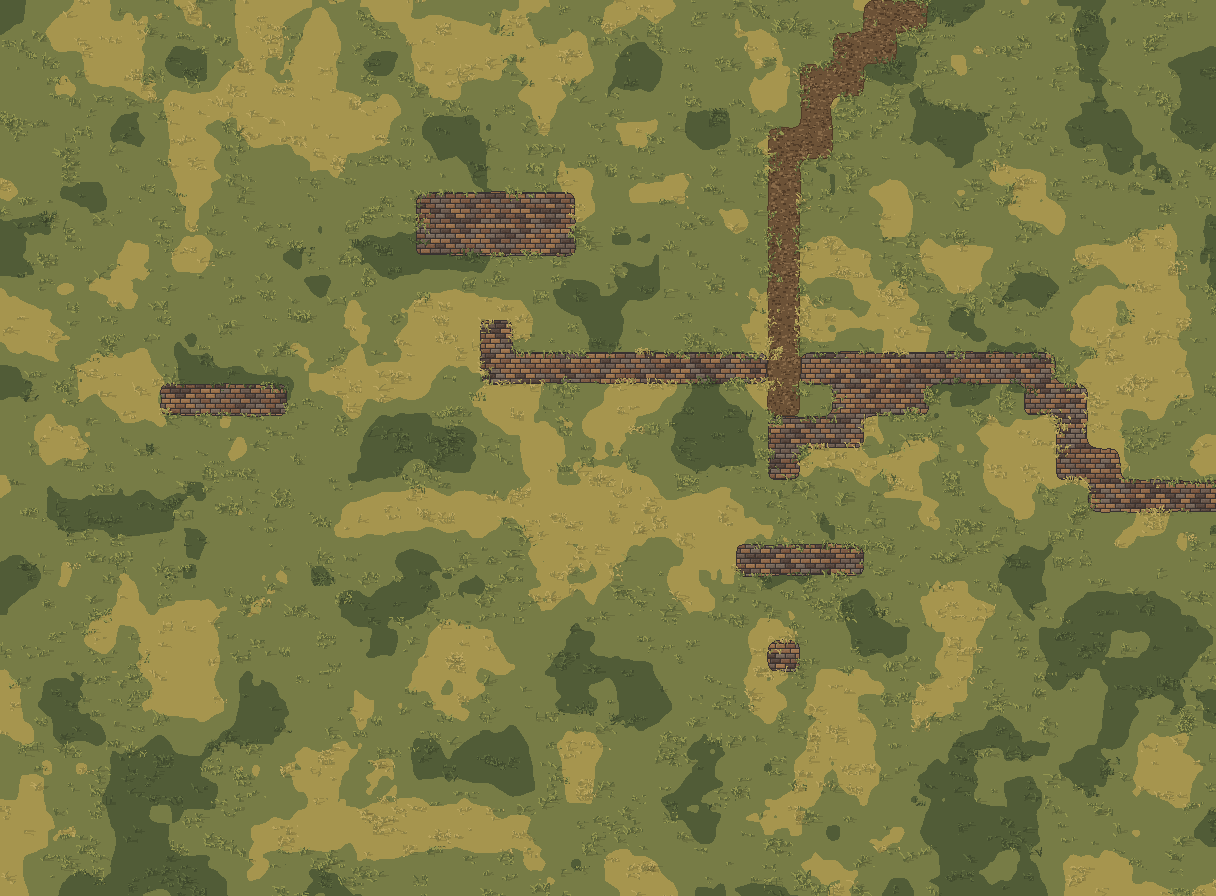
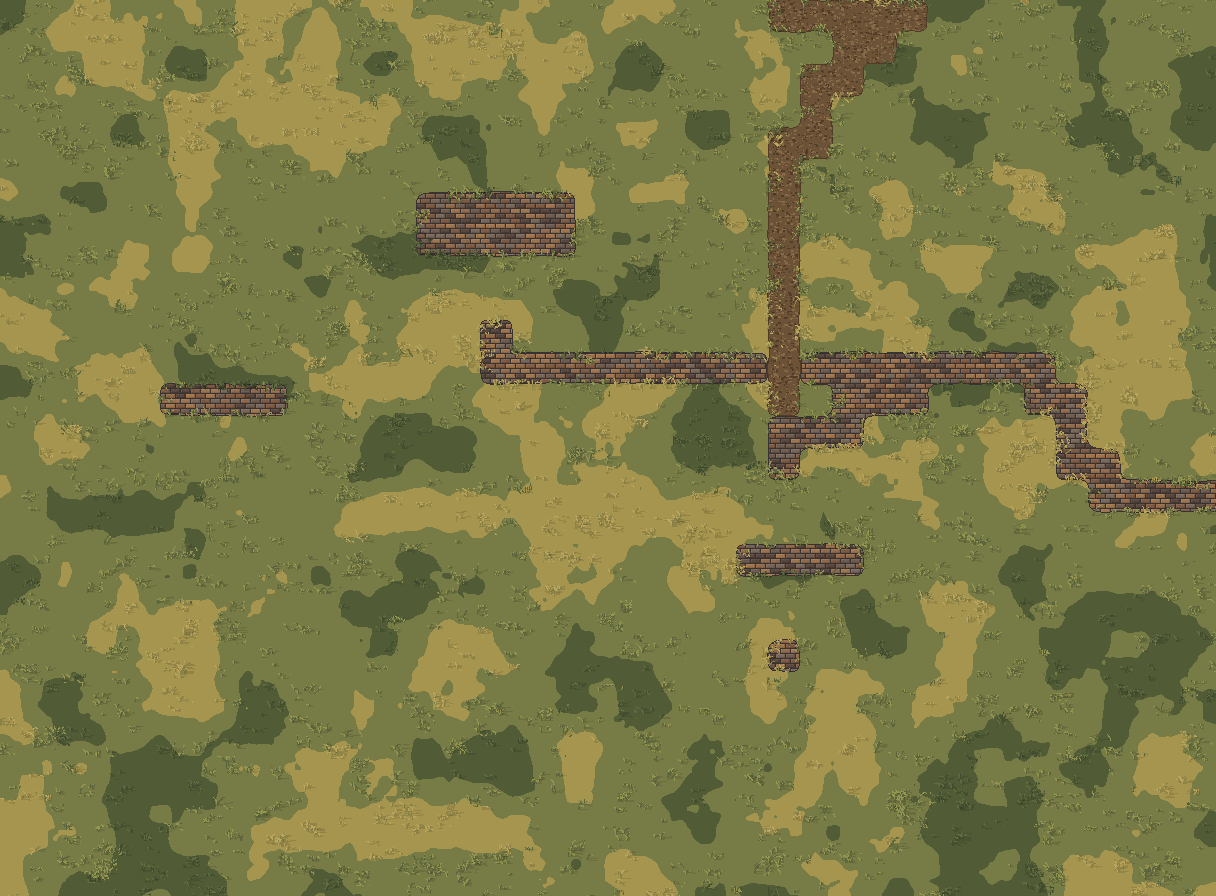
Walk between the overworld and Fangridge Peaks
Maps list exits in their .json: stepping on one fades to black, names the far map, and puts the farmer down on the far side. The mountain trail now runs to its bottom edge, where the farmer starts; the overworld trail's top cell climbs to it, and its bottom joins the town road. Saves remember the map and cell, so continuing resumes where the farmer stood.

Claude-Session: https://claude.ai/code/session_01Bnu1Ka1cxkrRCLbp1xNA9E

diff --git a/tools/art/mountain.py b/tools/art/mountain.py
@@ -1,8 +1,9 @@
 #!/usr/bin/env python3
 """The mountain map's cells, read straight from the hand-drawn mockup that its panels are painted from: ridges and
 everything beyond the mountain's outline block, green is grass, the black line is the trail, the unpainted inside is bare
-rock, purple outlines become home footprints with a door, the cave and lookout are marked, and the trail's lowest cell
-is the start. Run `mountain.py` to rewrite data/maps/fangridge.txt and the homes in its .json."""
+rock, purple outlines become home footprints with a door, and the cave and lookout are marked. The trail runs on from
+its lowest cell to the bottom edge, where the farmer starts and where stepping off leads back to the overworld trailhead.
+Run `mountain.py` to rewrite data/maps/fangridge.txt and the homes and exits in its .json."""
 import json
 from pathlib import Path
 
@@ -15,6 +16,7 @@ ROOT = Path(__file__).resolve().parents[2]
 TILE = 32
 MAP = "fangridge"
 SYMBOLS = {"void": "^", "ridge": "^", "grass": ".", "path": "-", "home": "X", "dig": "r", "cave": "^", "lookout": "r"}
+TRAILHEAD = {"map": "world", "at": "24,19", "facing": "south"}
 
 
 def kinds_per_cell() -> np.ndarray:
@@ -52,8 +54,11 @@ def layout() -> tuple[list, dict]:
         buildings[f"{cx0},{cy1}"] = "farmhouse"
     trail = [(x, y) for y in range(h) for x in range(w) if rows[y][x] == "-"]
     sx, sy = max(trail, key=lambda c: c[1])
-    rows[sy][sx] = "P"
-    return ["".join(r) for r in rows], buildings
+    for y in range(sy, h):
+        rows[y][sx] = rows[y][sx + 1] = "-"
+    rows[h - 2][sx] = "P"
+    exits = {f"{sx},{h - 1}": TRAILHEAD, f"{sx + 1},{h - 1}": TRAILHEAD}
+    return ["".join(r) for r in rows], buildings, exits
 
 
 def _components(mask: np.ndarray) -> list:
@@ -80,12 +85,13 @@ def _components(mask: np.ndarray) -> list:
 
 
 def main() -> None:
-    rows, buildings = layout()
+    rows, buildings, exits = layout()
     path = ROOT / "data" / "maps" / f"{MAP}.txt"
     path.write_text("\n".join(rows) + "\n")
     meta_path = path.with_suffix(".json")
     meta = json.loads(meta_path.read_text())
     meta["buildings"] = buildings
+    meta["exits"] = exits
     meta_path.write_text(json.dumps(meta, indent=2) + "\n")
     print("wrote", path.relative_to(ROOT), "with", len(buildings), "homes")
 

diff --git a/data/README.md b/data/README.md
@@ -2,7 +2,7 @@
 
 `grass.json` drives the painted ground, grass and stone paths alike: `dials` shape the patches (size, how much of the ground is light or dark, how far edges bleed, how many sprigs) the paths' stones (`stone_size`, grain, edge light and shade), and the pebbles on dirt and rock, `pack` says which sprigs to cut from the grass pack sheets, and `seasons` give each season's palette of three grass tones, its `stone` mortar and shades, its `rock` ledge and `dirt` trail shades, its `cliff` colours, and the sheets it draws from. Edit it and run `tools/art/grass_paint.py` to repaint `assets/grass/`; judge the result in the world previews.
 
-`maps/world.txt` is the overworld, one character per tile (legend in `scripts/world/world_map.gd`); beside every map, a `.json` of the same name names its districts (race, kind, tile rectangle) and anchors its buildings. `maps/fangridge.txt` is the mountain, generated by `tools/art/mountain.py`. `tools/world_overview.py [map]` draws both into `previews/<map>-overview.png`, and `tools/screenshot.sh scenes/world/world.tscn <name> <x,y> [map]` renders any spot at play scale.
+`maps/world.txt` is the overworld, one character per tile (legend in `scripts/world/world_map.gd`); beside every map, a `.json` of the same name names its districts (race, kind, tile rectangle), anchors its buildings, and lists its `exits`: the cell that, stepped on, carries the farmer to another map, the cell they arrive on there, and the way they face. `maps/fangridge.txt` is the mountain, generated by `tools/art/mountain.py`. `tools/world_overview.py [map]` draws both into `previews/<map>-overview.png`, and `tools/screenshot.sh scenes/world/world.tscn <name> <x,y> [map]` renders any spot at play scale.
 
 The mountain map is drawn by hand: `mountain mockup.png` at the repo root is its source, read into `maps/fangridge.txt` and its home anchors by `tools/art/mountain.py` (run it after changing the drawing) and painted into panels by `tools/art/panels.py`.
 
